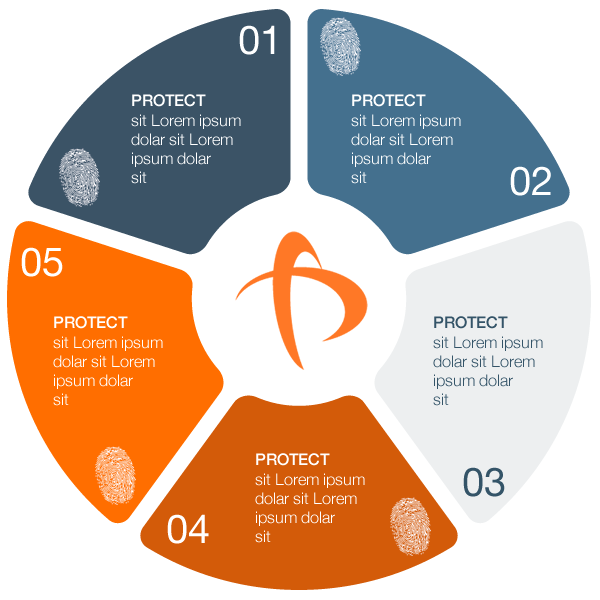
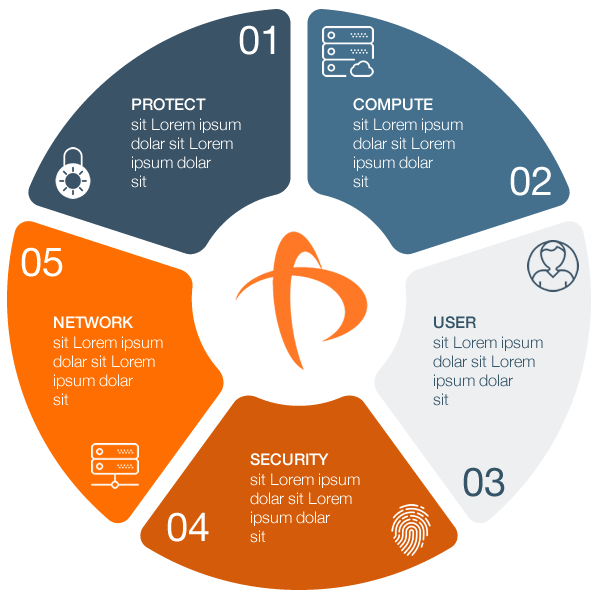
new msp graphic

diff --git a/services/cybersecurity.html b/services/cybersecurity.html
@@ -8,7 +8,7 @@ title: Cybersecurity
         <div class="row">
             <div class="col-sm-8 col-sm-offset-2">
                 <h6 class="block-title m-b-0">CYBERSECURITY</h6>
-                <h1 class="m-t-5 light"><span class="semi-bold">Paranet has prevented more <br>than 1 billion attacks.</span><br>Experience counts.</h1>
+                <h1 class="m-t-5 light">Paranet has prevented more <br>than <span class="semi-bold">one billion</span> attacks.<br>Experience counts.</h1>
                 <p class="m-t-20">We specialize in identifying, remediating and monitoring risk across your enterprise. We address each client issue with a unique solution specific to your needs.
                 </p>
                 <img src="/assets/images/arrow_down.png" class="m-t-30" alt="">

diff --git a/services/msp.html b/services/msp.html
@@ -20,8 +20,8 @@ title: Managed Services
 <section class="p-b-40">
       <div class="container-sm-height">
         <div class="row row-sm-height sm-m-l-15 sm-m-r-15">
-          <div class="col-md-6 col-md-offset-3">
-            <img class="p-r-40 xs-image-responsive-height sm-no-padding lazy loaded" src="/assets/images/msp.png" alt="" style="width: 100%;">
+          <div class="col-md-6 col-md-offset-3 text-center">
+            <img class="p-r-40 xs-image-responsive-height sm-no-padding lazy loaded" src="/assets/images/msp.png" alt="" style="width: 80%;">
           </div>
           </div>
       </div>
